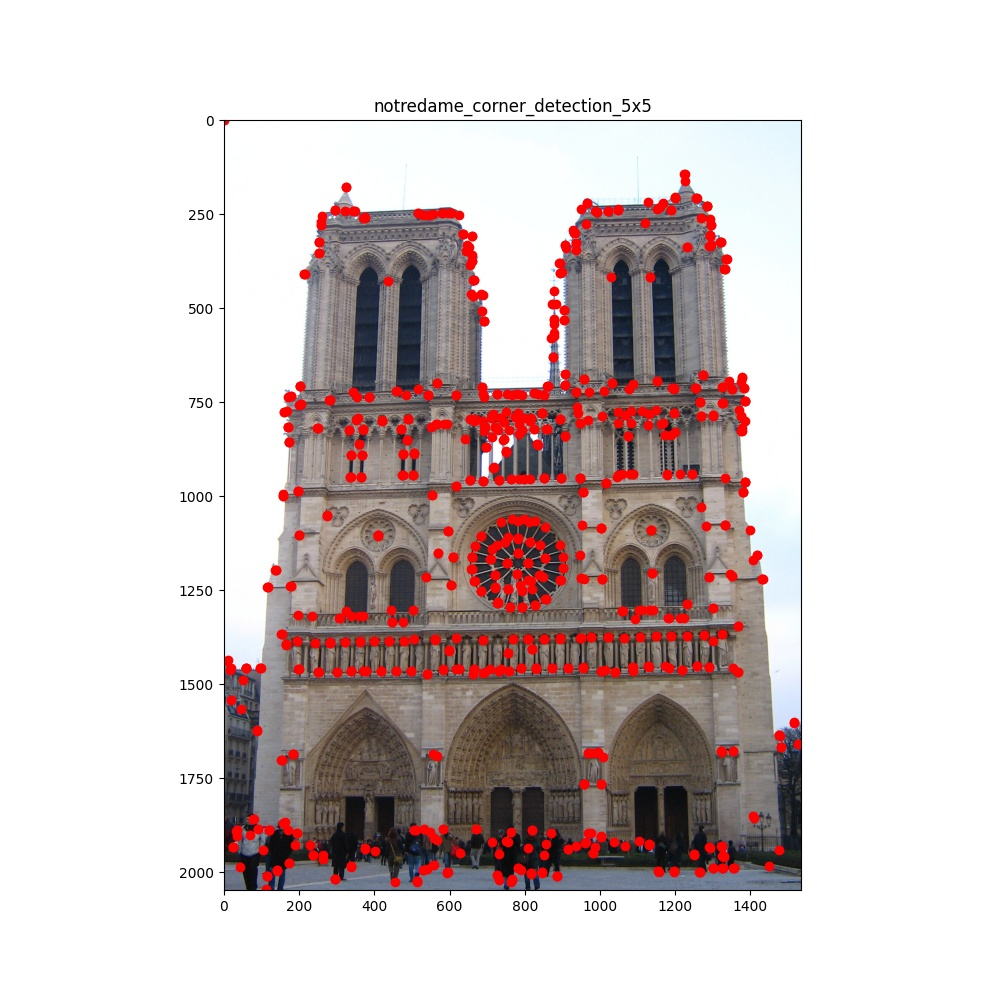
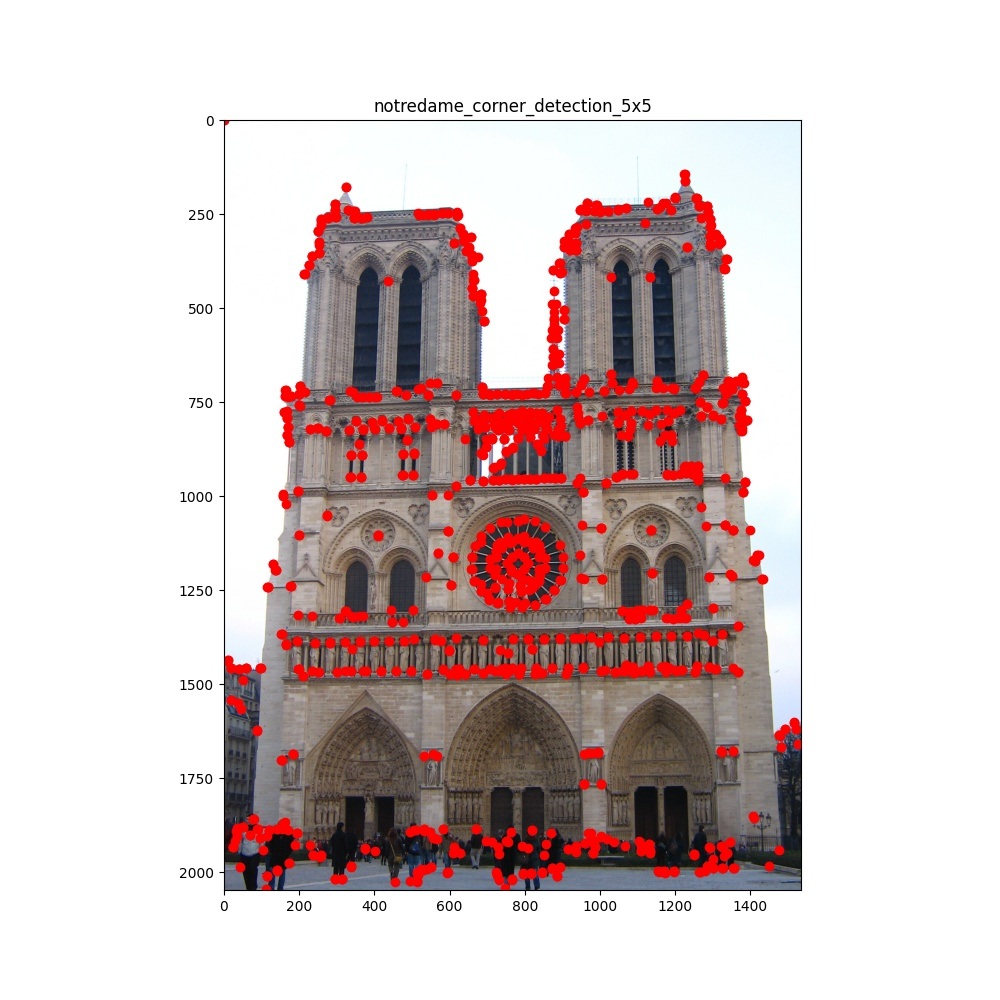
[UPDATE] corner detection for rotated, scaled images; create output folder

diff --git a/1/HW1-1.py b/1/HW1-1.py
@@ -1,4 +1,5 @@
 import functools
+import pathlib
 
 import cv2
 import matplotlib.pyplot as plt
@@ -69,7 +70,7 @@ def sobel_gradient_field(image, threshold_ratio=0.0):
 def direction_in_hsv(magnitude, direction):
     hsv = np.zeros(direction.shape, dtype=np.uint8)
 
-    hsv[..., 0] = direction.mean(axis=-1) * 180 / np.pi / 2
+    hsv[..., 0] = direction.mean(axis=-1) * 180 / np.pi / 2 + 90
     hsv[..., 1] = 255
     hsv[..., 2] = normalize(magnitude.mean(axis=-1), 0, 255)
     rgb = cv2.cvtColor(hsv, cv2.COLOR_HSV2BGR)
@@ -173,11 +174,18 @@ def harris_corner_detection(original_image, name):
                 img_to_save.update({f'{name}_eigen_{w_size}': eigen_minus})
 
                 # Step 4: Non-maximal Suppression
-                corners = non_maximal_suppression(eigen_minus, 25, 0.1)
+                corners = non_maximal_suppression(eigen_minus, 15, 0.1)
                 result = show_corner(original_image, corners, w_size, name)
                 img_to_save.update({f'{name}_corner_detection_{w_size}': result})
 
     return img_to_save
+
+
+def similarity_transform(image, angle=0.0, scale=1.0):
+    trans_mat = cv2.getRotationMatrix2D([image.shape[1] / 2, image.shape[0] / 2],
+                                        angle, scale)
+    transformed_image = cv2.warpAffine(image, trans_mat, None, flags=cv2.INTER_LINEAR)
+    return transformed_image
 
 
 if __name__ == '__main__':
@@ -190,5 +198,27 @@ if __name__ == '__main__':
     images_to_save.update(harris_corner_detection(chessboard, 'chessboard'))
     images_to_save.update(harris_corner_detection(notredame, 'notredame'))
 
+    normal_dir = pathlib.Path('output', 'normal')
+    if not normal_dir.exists():
+        normal_dir.mkdir(parents=True, exist_ok=True)
     for filename, img in images_to_save.items():
-        cv2.imwrite(f'output/normal/{filename}.jpg', normalize(img, 0, 255))
+        cv2.imwrite(str(normal_dir / f'{filename}.jpg'), normalize(img, 0, 255))
+
+    images_to_save.clear()
+
+    chessboard_r30 = similarity_transform(chessboard, angle=30)
+    chessboard_s05 = similarity_transform(chessboard, scale=0.5)
+    notredame_r30 = similarity_transform(notredame, angle=30)
+    notredame_s05 = similarity_transform(notredame, scale=0.5)
+
+    images_to_save.update(harris_corner_detection(chessboard_r30, 'chessboard_rotate_30'))
+    images_to_save.update(harris_corner_detection(chessboard_s05, 'chessboard_scale_05'))
+    images_to_save.update(harris_corner_detection(notredame_r30, 'notredame_rotate_30'))
+    images_to_save.update(harris_corner_detection(notredame_s05, 'notredame_scale_05'))
+
+    transformed_dir = pathlib.Path('output', 'transformed')
+    if not transformed_dir.exists():
+        transformed_dir.mkdir(parents=True, exist_ok=True)
+    for filename, img in images_to_save.items():
+        cv2.imwrite(str(transformed_dir / f'{filename}.jpg'), normalize(img, 0, 255))
+
